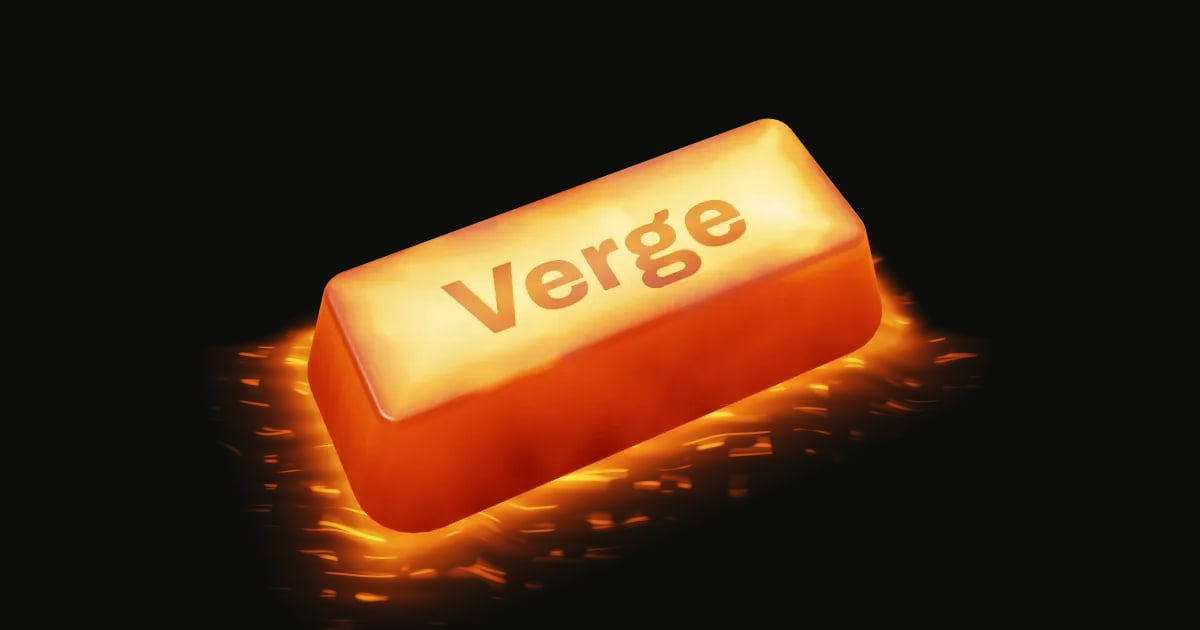
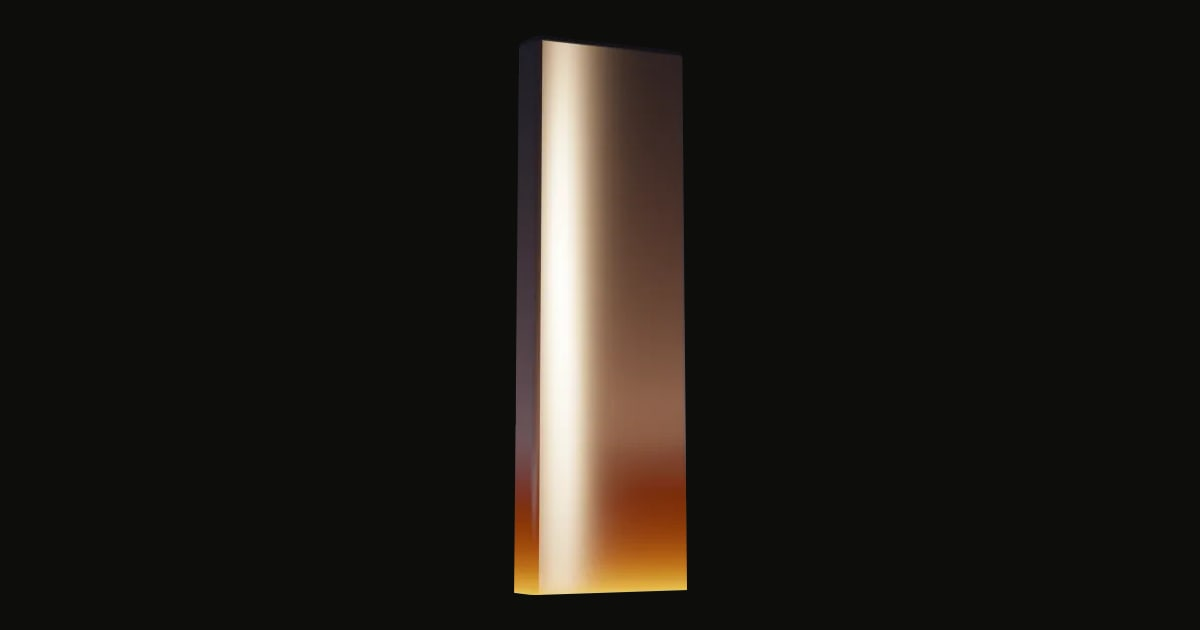
Ventures pages: the metal monoliths from the home page's world replace the old ingots, and the share images are rebuilt from them
Claude-Session: https://claude.ai/code/session_01PrrUSitYmSR7aDjHHAhibr

diff --git a/components/Ventures.tsx b/components/Ventures.tsx
@@ -10,6 +10,7 @@ import './Ventures.css';
 
 // Ingot stills (scripts/ingot-stills.mjs → public/film/ingots/<slug>-<w>.webp, transparent). Checked at build time, so a venture without a
 // render falls back to its mark drawn in CSS: cool for a live venture, still glowing for one in the mould.
+export const hasMonolith = (name?: string) => !!name && fs.existsSync(path.join(process.cwd(), 'public/film/monoliths', `${name}-1200.webp`));
 export const hasIngot = (slug?: string) => !!slug && fs.existsSync(path.join(process.cwd(), 'public/film/ingots', `${slug}-1200.webp`));
 
 /**
@@ -79,7 +80,36 @@ function VentureCast({ v }: { v: Venture }) {
  * the /ventures pages.
  */
 export function VentureObject({ v, sizes = '(min-width: 1024px) 44vw, 92vw', eager, cue }: { v: Venture; sizes?: string; eager?: boolean; cue?: string }) {
+  if (hasMonolith(v.monolith)) return <MonolithStill name={v.monolith!} sizes={sizes} eager={eager} />;
   return hasIngot(v.ingot) ? <IngotScene slug={v.ingot!} sizes={sizes} eager={eager} cue={cue} /> : <MarkCast v={v} />;
+}
+
+/**
+ * The venture's metal monolith, as the home page's world renders it (a transparent still cut at its glowing waterline,
+ * 2:3). It stands on the page's own liquid: no floor, no box. Hover lifts it a little out of the liquid.
+ */
+function MonolithStill({ name, sizes, eager }: { name: string; sizes: string; eager?: boolean }) {
+  const src = (w: number) => `/film/monoliths/${name}-${w}.webp`;
+  // The still is 2:3 and fills its frame's height, so it is about two thirds of the frame's width (a 4:3 frame: half).
+  const narrow = sizes.replace(/(\d+)vw/g, (_, n) => `${Math.round(+n / 2)}vw`);
+  return (
+    <span className="vm">
+      {/* eslint-disable-next-line @next/next/no-img-element -- static export, the srcset is ours */}
+      <img
+        src={src(1200)}
+        srcSet={`${src(600)} 600w, ${src(1200)} 1200w, ${src(2400)} 2400w`}
+        sizes={narrow}
+        width={1200}
+        height={1800}
+        alt=""
+        draggable={false}
+        loading={eager ? 'eager' : 'lazy'}
+        fetchPriority={eager ? 'high' : undefined}
+        decoding="async"
+        className="vm-img"
+      />
+    </span>
+  );
 }
 
 /** The fallback visual (a venture without an ingot still): its mark, cool when live, glowing while it's forging. Verge's V is the

diff --git a/data/ventures.ts b/data/ventures.ts
@@ -12,8 +12,11 @@ export type Venture = {
   description?: string;
   /** The venture's mark (public/ventures/<slug>.svg), if it has one. */
   mark?: string;
-  /** Cast-ingot render (public/film/ingots/<slug>-*.webp), shown on the foundry floor. */
+  /** Cast-ingot render (public/film/ingots/<slug>-*.webp): the old foundry floor; the monolith wins when both exist. */
   ingot?: string;
+  /** Its metal monolith, rendered by the home page's world (public/film/monoliths/<name>-{600,1200,2400}.webp,
+   *  scripts/monolith-stills.mjs): shown on /ventures and its own page. */
+  monolith?: string;
 };
 
 // Adding a venture = adding one entry here. `forging` ventures still get a page (a teaser) but are shown glowing in
@@ -27,6 +30,7 @@ export const ventures = [
     status: 'live',
     href: '/sites',
     ingot: 'sites',
+    monolith: 'crucible-sites',
   },
   {
     slug: 'verge',
@@ -38,6 +42,7 @@ export const ventures = [
       'Verge is an AI coach for endurance athletes, built on the training data they already have. It tracks training load and recovery, using sleep, heart rate variability and resting heart rate to score how ready the body is each morning, that score deciding how hard the day’s session should be. A run-down day gets a lighter workout. The plan adjusts day by day and every session comes back with written feedback. The algorithms underneath took a long time to get right. It is made for runners, cyclists and triathletes.',
     mark: '/ventures/verge.svg',
     ingot: 'verge',
+    monolith: 'verge',
   },
   {
     slug: 'trellis',
@@ -49,6 +54,7 @@ export const ventures = [
       'Trellis is an AI-powered day planner built around how much you know about when something happens. Tell it “at 2pm,” “sometime this afternoon” or “by Friday,” and it works with exactly that much, placing everything into a plan that fits the hours you really have. The AI reads what you write, and a solver that follows fixed rules does the scheduling, so the same input always gives the same plan. A day that falls apart leaves no pile of overdue tasks behind. Unfinished work goes back where it came from, ready for the next try.',
     mark: '/ventures/trellis.svg',
     ingot: 'trellis',
+    monolith: 'trellis',
   },
 ] as const satisfies readonly Venture[];
 

diff --git a/app/ventures/[slug]/page.tsx b/app/ventures/[slug]/page.tsx
@@ -31,7 +31,7 @@ export async function generateMetadata({ params }: Props): Promise<Metadata> {
   // Its own share image when there is one: the rendered casting, cropped to 1200 × 630 (scripts/venture-og.mjs).
   const og = `/og/${v.slug}.jpg`;
   const images = fs.existsSync(path.join(process.cwd(), 'public', og))
-    ? [{ url: og, width: 1200, height: 630, alt: `${v.name}, cast in metal${v.status === 'live' ? '' : ' and still molten in its mould'}` }]
+    ? [{ url: og, width: 1200, height: 630, alt: `${v.name}: a metal monolith rising out of molten metal, still glowing at its base` }]
     : undefined;
   return {
     title,
@@ -43,8 +43,8 @@ export async function generateMetadata({ params }: Props): Promise<Metadata> {
 }
 
 /**
- * A venture's own page. While it is still forging this is a teaser: the name, its line, its casting still molten in the
- * mould (the rendered ingot, or its mark glowing in CSS without one), Jacob's description (never edited) and a way to
+ * A venture's own page. While it is still forging this is a teaser: the name, its line, its metal monolith (the
+ * still the home page's world renders, or its mark glowing in CSS without one), Jacob's description (never edited) and a way to
  * hear when it ships. No dates, users or numbers until they are real.
  */
 export default async function VenturePage({ params }: Props) {

diff --git a/components/Ventures.css b/components/Ventures.css
@@ -248,3 +248,30 @@ a:active .ing-cue {
     scale: 1;
   }
 }
+
+/* ---------- The monolith (a still from the home page's world, components/Ventures.tsx MonolithStill) ----------
+   Fills its frame's height, centred; it stands in the page's liquid with no floor or box. Hover (and keyboard focus on
+   the venture's link) lifts it out of the liquid a little; the glow at its waterline is in the still itself. */
+.vm {
+  position: relative;
+  display: flex;
+  justify-content: center;
+  align-items: flex-end;
+  width: 100%;
+  height: 100%;
+}
+.vm-img {
+  display: block;
+  height: 100%;
+  width: auto;
+  max-width: 100%;
+  object-fit: contain;
+  pointer-events: none;
+  transition: translate 900ms var(--ease-out);
+}
+@media (hover: hover) and (prefers-reduced-motion: no-preference) {
+  .group:hover .vm-img,
+  .group:has(.vf-link:focus-visible) .vm-img {
+    translate: 0 -2.5%;
+  }
+}

diff --git a/lab/pages/NOTES.md b/lab/pages/NOTES.md
@@ -89,6 +89,11 @@ MobileMenu}.tsx` and every component outside `components/world`, `app/{sites,wor
 - (14:30) Bug: a sideways finger drag on /sites (making waves) made Chrome swipe back in history (to about:blank in the
   test). `html:not([data-world]) { overscroll-behavior-x: none }`; the home page keeps world's own setting.
 
+- (14:20) /ventures and /ventures/[slug] show the monoliths (ventures' stills from the world's own shader,
+  `public/film/monoliths/`, `data/ventures.ts` `monolith`), not the old ingots: one metal across the site. Hover/focus
+  lifts the monolith 2.5%. The venture share images (`public/og/{verge,trellis}.jpg`) are rebuilt from them
+  (`scripts/venture-og.mjs`). IngotScene and lib/gl3d ingot code are now unused by any page: remove in the cleanup.
+
 ## Decisions
 - (08:40) Nav breakpoint 389 px: 390 px and up (iPhone 12-16) keep the current nav exactly.
 - (07:40) Liquid is per-route: off on `/` (the world paints the home), on everywhere else. A restart gets a fresh
